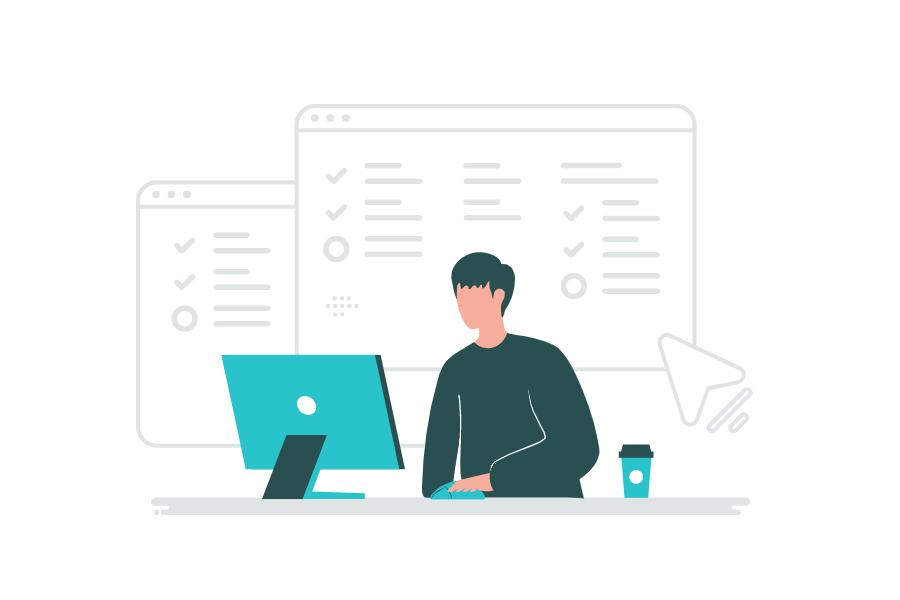
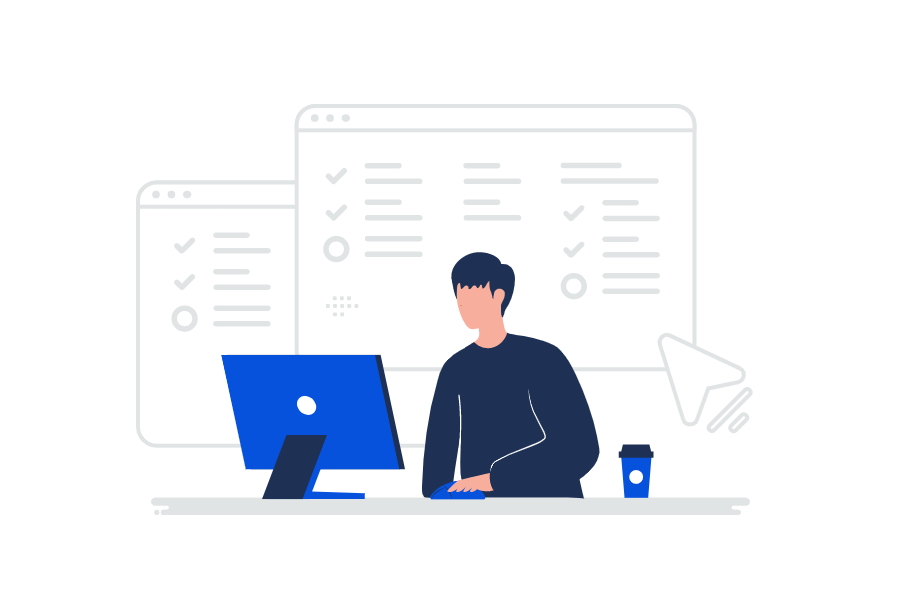
ok

Changed region(s): [[0.2489, 0.54, 0.7467, 0.84], [0.4978, 0.42, 0.5911, 0.51]]

diff --git a/assets/css/style.css b/assets/css/style.css
@@ -19,7 +19,7 @@ a {
 }
 
 a:hover {
-  color: #5faee3;
+  color: #0652DD;
   text-decoration: none;
 }
 
@@ -39,7 +39,7 @@ img{
   right: 15px;
   bottom: 15px;
   z-index: 996;
-  background: #3498db;
+  background: #0652DD;
   width: 40px;
   height: 40px;
   border-radius: 4px;
@@ -51,7 +51,7 @@ img{
   line-height: 0;
 }
 .back-to-top:hover {
-  background: #57aae1;
+  background: #0652DD;
   color: #fff;
 }
 .back-to-top.active {
@@ -77,7 +77,7 @@ img{
   background: #fff;
 }
 .dots{
-  color: #2383c4;
+  color: #0652DD;
 }
 #header.header-scrolled {
   box-shadow: 0px 2px 15px rgba(0, 0, 0, 0.1);
@@ -137,10 +137,10 @@ img{
   margin-left: 5px;
 }
 .navbar a:hover, .navbar .active, .navbar .active:focus, .navbar li:hover > a {
-  color: #3498db;
+  color: #0652DD;
 }
 .navbar .getstarted, .navbar .getstarted:focus {
-  background: #3498db;
+  background: #0652DD;
   padding: 8px 25px;
   margin-left: 30px;
   border-radius: 50px;
@@ -323,11 +323,11 @@ img{
   padding: 10px 30px;
   border-radius: 50px;
   transition: 0.5s;
-  color: #3498db;
-  border: 2px solid #3498db;
+  color: #0652DD;
+  border: 2px solid #0652DD;
 }
 #hero .btn-get-started:hover {
-  background: #3498db;
+  background: #0652DD;
   color: #fff;
 }
 #hero .animated {
@@ -420,7 +420,7 @@ section {
   content: "";
   width: 50px;
   height: 2px;
-  background: #3498db;
+  background: #0652DD;
   display: inline-block;
 }
 .section-title h2::before {
@@ -507,14 +507,14 @@ section {
   border-radius: 50px;
   transition: 0.3s;
   line-height: 1;
-  color: #3498db;
+  color: #0652DD;
   -webkit-animation-delay: 0.8s;
   animation-delay: 0.8s;
   margin-top: 6px;
-  border: 2px solid #3498db;
+  border: 2px solid #0652DD;
 }
 .about .content .btn-learn-more:hover {
-  background: #3498db;
+  background: #0652DD;
   color: #fff;
   text-decoration: none;
 }
@@ -543,7 +543,7 @@ section {
 .counts .content .count-box i {
   display: block;
   font-size: 36px;
-  color: #3498db;
+  color: #0652DD;
   float: left;
   line-height: 0;
 }
@@ -632,7 +632,7 @@ section {
   border-radius: 50%;
   width: 60px;
   height: 60px;
-  background: #3498db;
+  background: #0652DD;
   transition: all 0.3s ease-in-out;
 }
 .services .icon i {
@@ -815,10 +815,10 @@ section {
   height: 12px;
   background-color: #fff;
   opacity: 1;
-  border: 1px solid #3498db;
+  border: 1px solid #0652DD;
 }
 .testimonials .swiper-pagination .swiper-pagination-bullet-active {
-  background-color: #3498db;
+  background-color: #0652DD;
 }
 @media (max-width: 767px) {
   .testimonials .testimonial-wrap {
@@ -864,7 +864,7 @@ section {
 }
 .portfolio #portfolio-flters li:hover, .portfolio #portfolio-flters li.filter-active {
   color: #fff;
-  background: #3498db;
+  background: #0652DD;
 }
 .portfolio #portfolio-flters li:last-child {
   margin-right: 0;
@@ -1090,7 +1090,7 @@ section {
 }
 .pricing .box h4 {
   font-size: 42px;
-  color: #3498db;
+  color: #0652DD;
   font-weight: 500;
   font-family: "Open Sans", sans-serif;
   margin-bottom: 20px;
@@ -1133,8 +1133,8 @@ section {
   display: inline-block;
   padding: 10px 40px 12px 40px;
   border-radius: 50px;
-  border: 2px solid #3498db;
-  color: #3498db;
+  border: 2px solid #0652DD;
+  color: #0652DD;
   font-size: 14px;
   font-weight: 400;
   font-family: "Raleway", sans-serif;
@@ -1142,19 +1142,19 @@ section {
   transition: 0.3s;
 }
 .pricing .box .btn-buy:hover {
-  background: #3498db;
+  background: #0652DD;
   color: #fff;
 }
 .pricing .recommended {
-  border-color: #3498db;
+  border-color: #0652DD;
 }
 .pricing .recommended .btn-buy {
-  background: #3498db;
+  background: #0652DD;
   color: #fff;
 }
 .pricing .recommended .btn-buy:hover {
-  background: #2383c4;
-  border-color: #2383c4;
+  background: #0652DD;
+  border-color: #0652DD;
 }
 
 /*--------------------------------------------------------------
@@ -1209,7 +1209,7 @@ section {
   font-size: 18px;
   display: inline-block;
   background: #fff;
-  color: #3498db;
+  color: #0652DD;
   line-height: 1;
   padding: 8px 0;
   margin-right: 4px;
@@ -1218,10 +1218,10 @@ section {
   width: 36px;
   height: 36px;
   transition: 0.3s;
-  border: 1px solid #3498db;
+  border: 1px solid #0652DD;
 }
 .contact .social-links a:hover {
-  background: #3498db;
+  background: #0652DD;
   color: #fff;
 }
 .contact .info {
@@ -1229,7 +1229,7 @@ section {
 }
 .contact .info i {
   font-size: 32px;
-  color: #3498db;
+  color: #0652DD;
   float: left;
   line-height: 1;
 }
@@ -1285,10 +1285,10 @@ section {
   padding: 10px 15px;
 }
 .contact .php-email-form input:focus, .contact .php-email-form textarea:focus {
-  border-color: #3498db;
+  border-color: #0652DD;
 }
 .contact .php-email-form button[type=submit] {
-  background: #3498db;
+  background: #0652DD;
   border: 0;
   padding: 10px 24px;
   color: #fff;
@@ -1296,7 +1296,7 @@ section {
   border-radius: 50px;
 }
 .contact .php-email-form button[type=submit]:hover {
-  background: #2383c4;
+  background: #0652DD;
 }
 @-webkit-keyframes animate-loading {
   0% {
